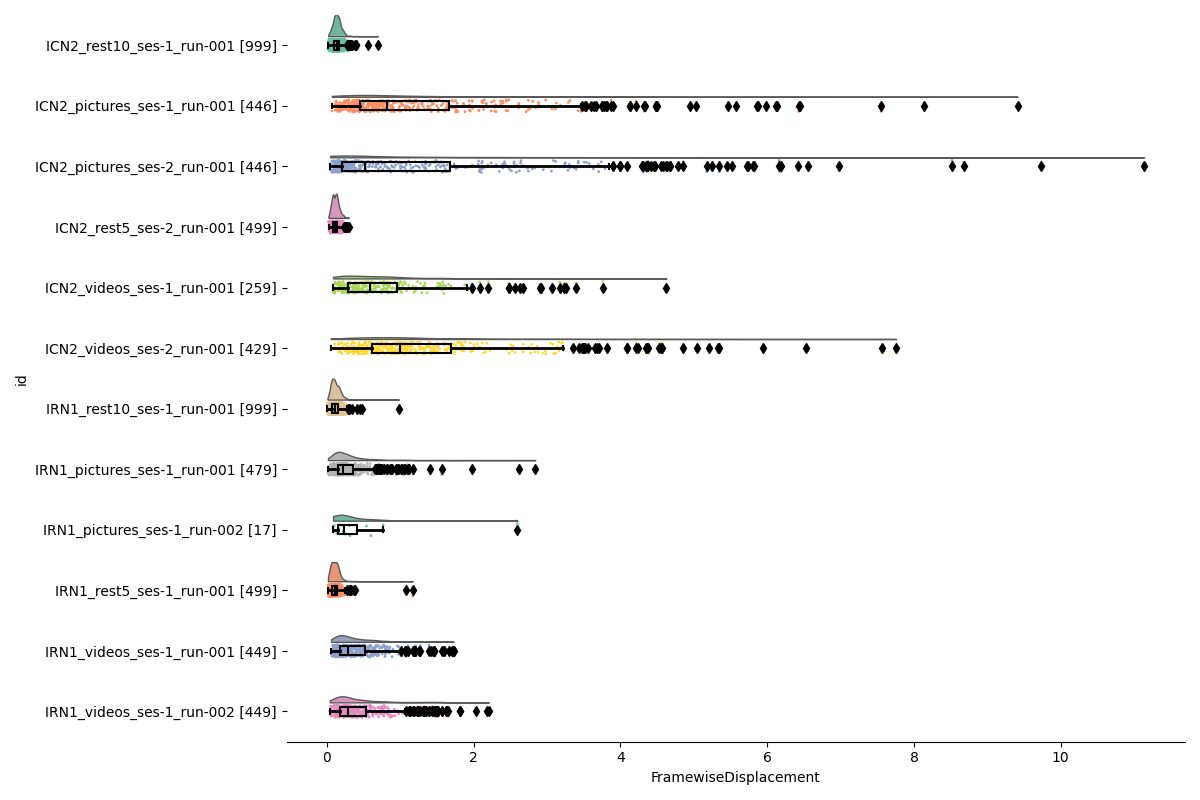
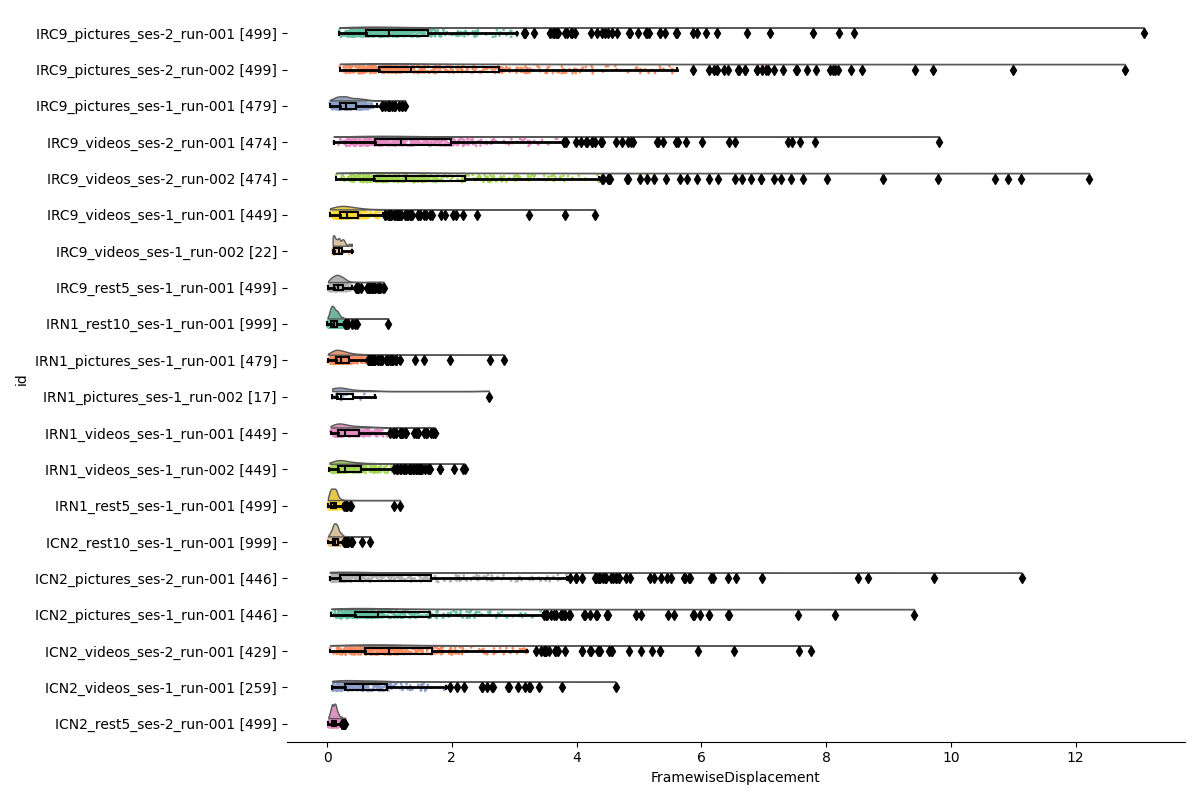
Updated reports

Changed region(s): [[0.0308, 0.0312, 0.9558, 0.9062], [0.0308, 0.625, 0.2467, 0.6875], [0.8633, 0.9375, 0.8942, 0.9688]]

diff --git a/reports/motion.html b/reports/motion.html
@@ -18,45 +18,23 @@
     <div class="container">
       
     
-        <h2>Participant ICN2</h2>
-        
-            <h2>Task rest10</h3>
-            
-                
-                    <h4>  Session 1, run 1</h4>
-                    <div class="row align-items-start">
-                    <div class="col"><img src="motion_plots/_run_1_session_1_subject_id_ICN2_task_name_rest10/sub-ICN2_ses-1_dir-AP_task-rest10_run-001_bold_mcf.nii_trans.png" /></div>
-                    <div class="col"><img src="motion_plots/_run_1_session_1_subject_id_ICN2_task_name_rest10/sub-ICN2_ses-1_dir-AP_task-rest10_run-001_bold_mcf.nii_rot.png" /></div>
-                    </div>
-                
-            
+        <h2>Participant IRC9</h2>
         
             <h2>Task pictures</h3>
             
                 
+                    <h4>  Session 2, run 2</h4>
+                    <div class="row align-items-start">
+                    <div class="col"><img src="motion_plots/_run_2_session_2_subject_id_IRC9_task_name_pictures/sub-IRC9_ses-2_dir-AP_task-pictures_run-002_bold_mcf.nii_trans.png" /></div>
+                    <div class="col"><img src="motion_plots/_run_2_session_2_subject_id_IRC9_task_name_pictures/sub-IRC9_ses-2_dir-AP_task-pictures_run-002_bold_mcf.nii_rot.png" /></div>
+                    </div>
+                
+            
+                
                     <h4>  Session 1, run 1</h4>
                     <div class="row align-items-start">
-                    <div class="col"><img src="motion_plots/_run_1_session_1_subject_id_ICN2_task_name_pictures/sub-ICN2_ses-1_dir-AP_task-pictures_run-001_bold_mcf.nii_trans.png" /></div>
-                    <div class="col"><img src="motion_plots/_run_1_session_1_subject_id_ICN2_task_name_pictures/sub-ICN2_ses-1_dir-AP_task-pictures_run-001_bold_mcf.nii_rot.png" /></div>
-                    </div>
-                
-            
-                
-                    <h4>  Session 2, run 1</h4>
-                    <div class="row align-items-start">
-                    <div class="col"><img src="motion_plots/_run_1_session_2_subject_id_ICN2_task_name_pictures/sub-ICN2_ses-2_dir-AP_task-pictures_run-001_bold_mcf.nii_trans.png" /></div>
-                    <div class="col"><img src="motion_plots/_run_1_session_2_subject_id_ICN2_task_name_pictures/sub-ICN2_ses-2_dir-AP_task-pictures_run-001_bold_mcf.nii_rot.png" /></div>
-                    </div>
-                
-            
-        
-            <h2>Task rest5</h3>
-            
-                
-                    <h4>  Session 2, run 1</h4>
-                    <div class="row align-items-start">
-                    <div class="col"><img src="motion_plots/_run_1_session_2_subject_id_ICN2_task_name_rest5/sub-ICN2_ses-2_dir-AP_task-rest5_run-001_bold_mcf.nii_trans.png" /></div>
-                    <div class="col"><img src="motion_plots/_run_1_session_2_subject_id_ICN2_task_name_rest5/sub-ICN2_ses-2_dir-AP_task-rest5_run-001_bold_mcf.nii_rot.png" /></div>
+                    <div class="col"><img src="motion_plots/_run_1_session_1_subject_id_IRC9_task_name_pictures/sub-IRC9_ses-1_dir-AP_task-pictures_run-001_bold_mcf.nii_trans.png" /></div>
+                    <div class="col"><img src="motion_plots/_run_1_session_1_subject_id_IRC9_task_name_pictures/sub-IRC9_ses-1_dir-AP_task-pictures_run-001_bold_mcf.nii_rot.png" /></div>
                     </div>
                 
             
@@ -64,18 +42,29 @@
             <h2>Task videos</h3>
             
                 
-                    <h4>  Session 1, run 1</h4>
+                    <h4>  Session 2, run 2</h4>
                     <div class="row align-items-start">
-                    <div class="col"><img src="motion_plots/_run_1_session_1_subject_id_ICN2_task_name_videos/sub-ICN2_ses-1_dir-AP_task-videos_run-001_bold_mcf.nii_trans.png" /></div>
-                    <div class="col"><img src="motion_plots/_run_1_session_1_subject_id_ICN2_task_name_videos/sub-ICN2_ses-1_dir-AP_task-videos_run-001_bold_mcf.nii_rot.png" /></div>
+                    <div class="col"><img src="motion_plots/_run_2_session_2_subject_id_IRC9_task_name_videos/sub-IRC9_ses-2_dir-AP_task-videos_run-002_bold_mcf.nii_trans.png" /></div>
+                    <div class="col"><img src="motion_plots/_run_2_session_2_subject_id_IRC9_task_name_videos/sub-IRC9_ses-2_dir-AP_task-videos_run-002_bold_mcf.nii_rot.png" /></div>
                     </div>
                 
             
                 
-                    <h4>  Session 2, run 1</h4>
+                    <h4>  Session 1, run 2</h4>
                     <div class="row align-items-start">
-                    <div class="col"><img src="motion_plots/_run_1_session_2_subject_id_ICN2_task_name_videos/sub-ICN2_ses-2_dir-AP_task-videos_run-001_bold_mcf.nii_trans.png" /></div>
-                    <div class="col"><img src="motion_plots/_run_1_session_2_subject_id_ICN2_task_name_videos/sub-ICN2_ses-2_dir-AP_task-videos_run-001_bold_mcf.nii_rot.png" /></div>
+                    <div class="col"><img src="motion_plots/_run_2_session_1_subject_id_IRC9_task_name_videos/sub-IRC9_ses-1_dir-AP_task-videos_run-002_bold_mcf.nii_trans.png" /></div>
+                    <div class="col"><img src="motion_plots/_run_2_session_1_subject_id_IRC9_task_name_videos/sub-IRC9_ses-1_dir-AP_task-videos_run-002_bold_mcf.nii_rot.png" /></div>
+                    </div>
+                
+            
+        
+            <h2>Task rest5</h3>
+            
+                
+                    <h4>  Session 1, run 1</h4>
+                    <div class="row align-items-start">
+                    <div class="col"><img src="motion_plots/_run_1_session_1_subject_id_IRC9_task_name_rest5/sub-IRC9_ses-1_dir-AP_task-rest5_run-001_bold_mcf.nii_trans.png" /></div>
+                    <div class="col"><img src="motion_plots/_run_1_session_1_subject_id_IRC9_task_name_rest5/sub-IRC9_ses-1_dir-AP_task-rest5_run-001_bold_mcf.nii_rot.png" /></div>
                     </div>
                 
             
@@ -105,6 +94,17 @@
                 
             
         
+            <h2>Task videos</h3>
+            
+                
+                    <h4>  Session 1, run 2</h4>
+                    <div class="row align-items-start">
+                    <div class="col"><img src="motion_plots/_run_2_session_1_subject_id_IRN1_task_name_videos/sub-IRN1_ses-1_dir-AP_task-videos_run-002_bold_mcf.nii_trans.png" /></div>
+                    <div class="col"><img src="motion_plots/_run_2_session_1_subject_id_IRN1_task_name_videos/sub-IRN1_ses-1_dir-AP_task-videos_run-002_bold_mcf.nii_rot.png" /></div>
+                    </div>
+                
+            
+        
             <h2>Task rest5</h3>
             
                 
@@ -116,13 +116,65 @@
                 
             
         
+    
+        <h2>Participant ICN2</h2>
+        
+            <h2>Task rest10</h3>
+            
+                
+                    <h4>  Session 1, run 1</h4>
+                    <div class="row align-items-start">
+                    <div class="col"><img src="motion_plots/_run_1_session_1_subject_id_ICN2_task_name_rest10/sub-ICN2_ses-1_dir-AP_task-rest10_run-001_bold_mcf.nii_trans.png" /></div>
+                    <div class="col"><img src="motion_plots/_run_1_session_1_subject_id_ICN2_task_name_rest10/sub-ICN2_ses-1_dir-AP_task-rest10_run-001_bold_mcf.nii_rot.png" /></div>
+                    </div>
+                
+            
+        
+            <h2>Task pictures</h3>
+            
+                
+                    <h4>  Session 2, run 1</h4>
+                    <div class="row align-items-start">
+                    <div class="col"><img src="motion_plots/_run_1_session_2_subject_id_ICN2_task_name_pictures/sub-ICN2_ses-2_dir-AP_task-pictures_run-001_bold_mcf.nii_trans.png" /></div>
+                    <div class="col"><img src="motion_plots/_run_1_session_2_subject_id_ICN2_task_name_pictures/sub-ICN2_ses-2_dir-AP_task-pictures_run-001_bold_mcf.nii_rot.png" /></div>
+                    </div>
+                
+            
+                
+                    <h4>  Session 1, run 1</h4>
+                    <div class="row align-items-start">
+                    <div class="col"><img src="motion_plots/_run_1_session_1_subject_id_ICN2_task_name_pictures/sub-ICN2_ses-1_dir-AP_task-pictures_run-001_bold_mcf.nii_trans.png" /></div>
+                    <div class="col"><img src="motion_plots/_run_1_session_1_subject_id_ICN2_task_name_pictures/sub-ICN2_ses-1_dir-AP_task-pictures_run-001_bold_mcf.nii_rot.png" /></div>
+                    </div>
+                
+            
+        
             <h2>Task videos</h3>
             
                 
-                    <h4>  Session 1, run 2</h4>
+                    <h4>  Session 2, run 1</h4>
                     <div class="row align-items-start">
-                    <div class="col"><img src="motion_plots/_run_2_session_1_subject_id_IRN1_task_name_videos/sub-IRN1_ses-1_dir-AP_task-videos_run-002_bold_mcf.nii_trans.png" /></div>
-                    <div class="col"><img src="motion_plots/_run_2_session_1_subject_id_IRN1_task_name_videos/sub-IRN1_ses-1_dir-AP_task-videos_run-002_bold_mcf.nii_rot.png" /></div>
+                    <div class="col"><img src="motion_plots/_run_1_session_2_subject_id_ICN2_task_name_videos/sub-ICN2_ses-2_dir-AP_task-videos_run-001_bold_mcf.nii_trans.png" /></div>
+                    <div class="col"><img src="motion_plots/_run_1_session_2_subject_id_ICN2_task_name_videos/sub-ICN2_ses-2_dir-AP_task-videos_run-001_bold_mcf.nii_rot.png" /></div>
+                    </div>
+                
+            
+                
+                    <h4>  Session 1, run 1</h4>
+                    <div class="row align-items-start">
+                    <div class="col"><img src="motion_plots/_run_1_session_1_subject_id_ICN2_task_name_videos/sub-ICN2_ses-1_dir-AP_task-videos_run-001_bold_mcf.nii_trans.png" /></div>
+                    <div class="col"><img src="motion_plots/_run_1_session_1_subject_id_ICN2_task_name_videos/sub-ICN2_ses-1_dir-AP_task-videos_run-001_bold_mcf.nii_rot.png" /></div>
+                    </div>
+                
+            
+        
+            <h2>Task rest5</h3>
+            
+                
+                    <h4>  Session 2, run 1</h4>
+                    <div class="row align-items-start">
+                    <div class="col"><img src="motion_plots/_run_1_session_2_subject_id_ICN2_task_name_rest5/sub-ICN2_ses-2_dir-AP_task-rest5_run-001_bold_mcf.nii_trans.png" /></div>
+                    <div class="col"><img src="motion_plots/_run_1_session_2_subject_id_ICN2_task_name_rest5/sub-ICN2_ses-2_dir-AP_task-rest5_run-001_bold_mcf.nii_rot.png" /></div>
                     </div>
                 
             

diff --git a/README.md b/README.md
@@ -1,8 +1,72 @@
-# 2021-10-10
-* Evaluated including confounds pipeline from fMRI prep
-* Not possible at present as acompcor and tcompcor need CSF/WM/GM masks, which we don't have as don't want to have to rely on having structural
+# Processing pipeline for FOUNDCOG data
+By the FOUNDCOG team, Cusack lab, Trinity College Dublin
 
-* Include CalculateFWD and CalculateDVARS directly in pipeline
-* DVARS requires brain mask - where to get this?
+
+## General 
+### Useful resources
+* fMRIprep code https://github.com/nipreps/fmriprep/tree/master/fmriprep/workflows/bold
+* nipype legacy workflows https://github.com/niflows/nipype1-workflows
+
+## Road map of things that should/could be implemented
+### All fMRI 
+* Distortion correction using phase encode polarity images
+    - base on sdc flow from fmriprep?
+* Motion
+    - spikes (i.e., model out frames with big shift)
+    - censoring (i.e., cut out chunks of data)
+    - framewise displacement                      *<-- key QA metric*
+    - summarise proportion of data used- i.e., for each desired session, was it acquired at all, and how much of the desired length of data was useable         *<-- key QA metric*
+* Normalisation
+    - prerequisite for any group analysis steps
+    - could be done on overall mean across all time series (procedure for using EPIs from adults), or on sub-runs after censoring (Turk-Browne/Saxe labs)
+    
+### Videos fMRI
+* Inter-(subject+session) correlation
+* MVPA modelling (within subject)
+    - RDM
+    - MDS, clustering  
+* Compare RDMS between infants and adults *<-- key QA metric AND key outcome*
+* MVPA modelling (across subject)
+    - RDM
+    - Within vs. across video contrast          *<-- key QA metric AND key outcome* 
+* regression model of perceptual and semantic factors
+* model contextual order effects (need to sort out adult analysis first)
+
+### Pictures fMRI
+* Stimulus minus baseline                       *<-- key QA metric*
+* MVPA modelling using within-subject repetitions of each picture class
+    - RDM
+    - contrast of within vs. across picture class           
+    - MDS, clustering
+* Compare RDMS between infants and adults *<-- key QA metric AND key outcome*
+* MVPA modelling using within-subject repetitions of each associated context
+    - RDM
+    - contrast of within vs. across picture context
+    - MDS, clustering
+    - comparison with videos                    *<-- key outcome*
+
+### Only resting state fMRI 
+* Calculate intrinsic timescales 
+
+### For all infants with both pictures and intrinsic timescales
+* Compare semantic representation strength (e.g., within vs between; or comparison of picture and video RDMS) vs. intrinsic timescale
+
+### Diffusion
+* Pre-processing 
+* Compare timescales with structural connectivity?
+* Relate connectivity of voxels with their video selectivity (c.f., Laura)
+
+### Structural, T2
+
+
+## Log of development
+### 2021-10-10 [RC]
+* Set up initial pipeline, using MCFLIRT
+* Need metrics for QA motion
+    * Evaluated including confounds pipeline from fMRI prep
+    * Not possible at present as acompcor and tcompcor need CSF/WM/GM masks, which we don't have as don't want to have to rely on having structural
+    * Include CalculateFWD and CalculateDVARS directly in pipeline
+* DVARS requires brain mask - usually calculated from structural but what should we do?
+
 
 
